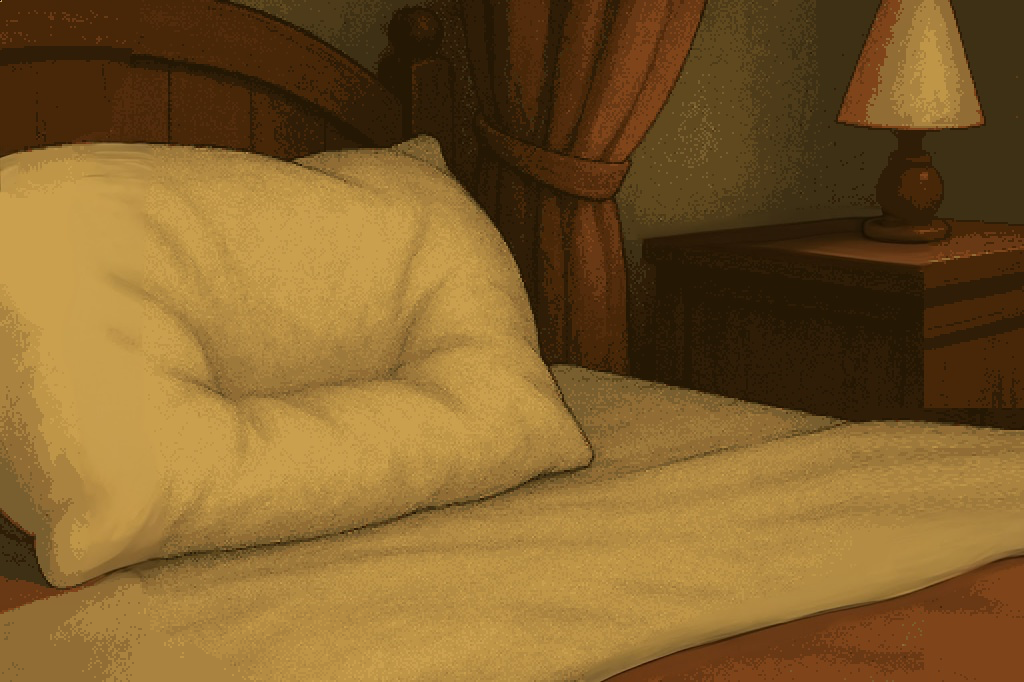
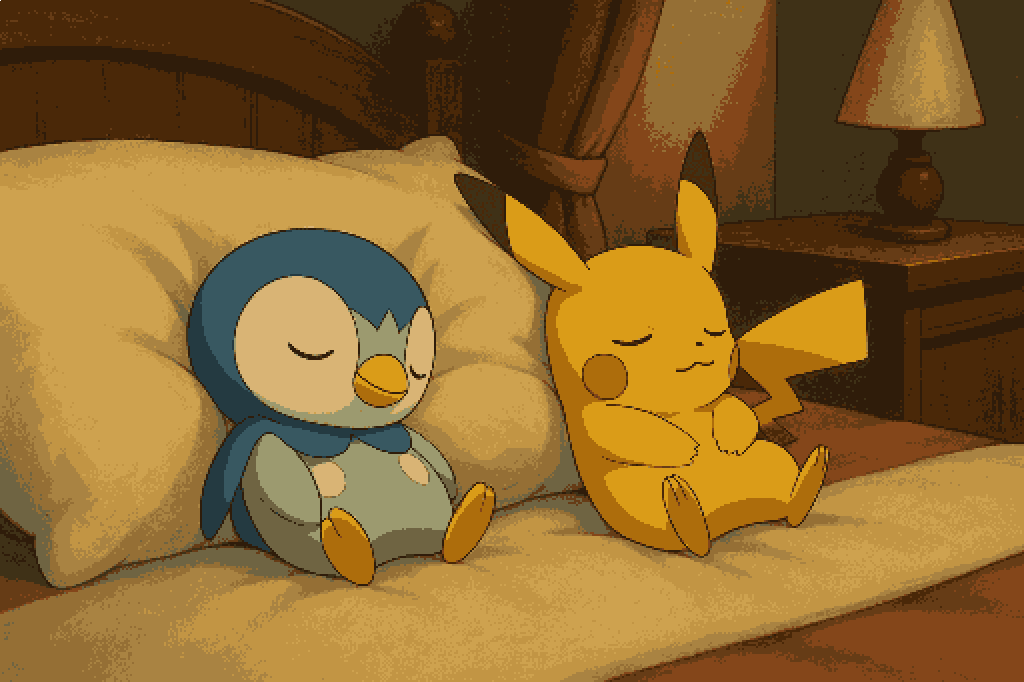
Update intro story asset

diff --git a/src/data.js b/src/data.js
@@ -146,15 +146,15 @@ window.scoreboard = {
 // ========== story_intro.js ==========
 window.story_intro = [
     {
-        "id": 1,
-        "image": "intro_1",
-        "lines": [
-          "혹시 포켓몬이라고 알아?",
-          "포켓몬이 뭐냐면 말이야, 이 세상에서 제일 신기한 생물이야.",
-          "사실 '포켓몬'이 아니라 '포켓몬스터'지만, 줄여서 포켓몬이라고 해.",
-          "하늘에서, 바다에서, 숲에서, 거리에서,",
-          "세계의 어디에서나 그들의 모습을 볼 수 있어."
-        ]
+      "id": 1,
+      "image": "intro_1",
+      "lines": [
+        "혹시 포켓몬이라고 알아?",
+        "포켓몬이 뭐냐면 말이야, 이 세상에서 제일 신기한 생물이야.",
+        "사실 '포켓몬'이 아니라 '포켓몬스터'지만, 줄여서 포켓몬이라고 해.",
+        "하늘에서, 바다에서, 숲에서, 거리에서,",
+        "세계의 어디에서나 그들의 모습을 볼 수 있어."
+      ]
     },
     {
       "id": 2,
@@ -168,20 +168,20 @@ window.story_intro = [
       ]
     },
     {
-        "id": 3,
-        "image": "intro_3",
-        "lines": [
-          "내 친구들, 피카츄와 팽도리와 함께 여행을 떠났어.",
-          "10살이 되면 포켓몬과 함께 여행을 떠나는 것,\n그게 우리 마을 전통이거든!",
-          "이상하다고? 뭐, 너희 마을과는 다를 수도 있지.",
-          "아무튼",
-          "피카츄와 팽도리, 그리고 나.",
-          "우리가 함께 걸은 길엔\n언제나 발자국이 세 쌍 있었지.",
-          "그렇게 여행을 하던 어느 날,",
-          "우리는 한 마을에 도착했고,\n그곳에서 며칠 머무르기로 했어.",
-          "그런데..."
-        ]
-      },
+      "id": 3,
+      "image": "intro_3",
+      "lines": [
+        "내 친구들, 피카츄와 팽도리와 함께 여행을 떠났어.",
+        "10살이 되면 포켓몬과 함께 여행을 떠나는 것,\n그게 우리 마을 전통이거든!",
+        "이상하다고? 뭐, 너희 마을과는 다를 수도 있지.",
+        "아무튼",
+        "피카츄와 팽도리, 그리고 나.",
+        "우리가 함께 걸은 길엔\n언제나 발자국이 세 쌍 있었지.",
+        "그렇게 여행을 하던 어느 날,",
+        "우리는 한 마을에 도착했고,\n그곳에서 며칠 머무르기로 했어.",
+        "그런데..."
+      ]
+    },
     {
       "id": 4,
       "image": "intro_4",
@@ -194,7 +194,7 @@ window.story_intro = [
       ]
     },
     {
-      "id": 3,
+      "id": 5,
       "image": "intro_5",
       "lines": [
         "“포켓몬들이… 전부 사라졌대. 사람 곁에서 흔적도 없이.”",
@@ -205,23 +205,43 @@ window.story_intro = [
       ]
     },
     {
-      "id": 4,
+      "id": 6,
       "image": "intro_6",
       "lines": [
-        "내 친구들마저- 피카츄, 팽도리...",
-        "어제까지만 해도 내 옆에서 잠들던 녀석들이,",
-        "아침이 되니 모두 사라졌어.",
-        "이게 대체 무슨 일일까?"
+        "...솔직히 말하자면, ",
+        "나와 상관 없는 일이었다면\n그저 그런 사건으로 넘겼을 지도 몰라.",
+        "엮이면 안 되는 일이라고 생각했을 테니까.",
+        "그런데 내 친구들마저-"
       ]
     },
     {
-      "id": 5,
+      "id": 7,
       "image": "intro_7",
       "lines": [
-        "대체 누가 왜 이런 짓을 벌인 건진,\n나로썬 모르겠어.",
+        "...사라져 버렸어.",
+        "흔적도 하나 안 남기고.",
+        "어제까지만 해도 내 옆에서 잠들던 녀석들이었는데,",
+        "내가 아침에 눈을 떴을 땐, 이미 모든 일이 벌어진 뒤였어."
+      ]
+    },
+    {
+      "id": 8,
+      "image": "intro_8",
+      "lines": [
+        "대체 누가, 왜 이런 짓을 벌인 건진\n나로썬 모르겠어.",
         "하지만 그게 누구든, 어떤 목적이든 상관없어.",
-        "설령 이 길에 어떤 위험이 날 기다리고 있어도..",
-        "내 친구들을 반드시 되찾고 말겠어."
+        "설령 어떤 위험이 도사리고 있어도.."
+      ]
+    },
+    {
+      "id": 9,
+      "image": "intro_9",
+      "lines": [
+        "난 내 친구들을 반드시 되찾고 말겠어.",
+        "...",
+        "피카츄,",
+        "팽도리,",
+        "내가 구하러 갈게."
       ]
     }
   ]
